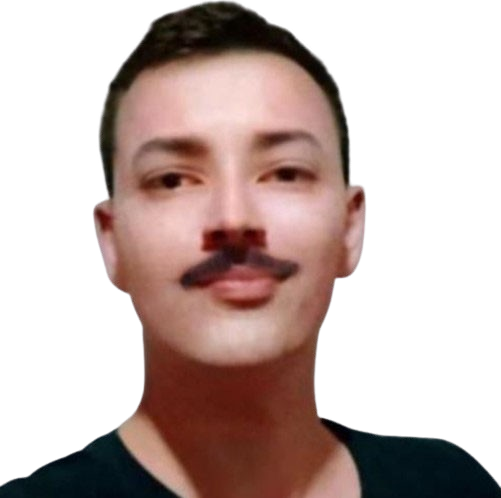
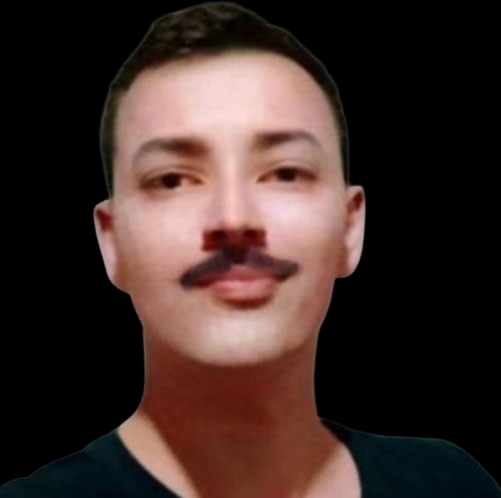
Corrige exibição da foto do Xonha no status.
Achata o PNG no fundo preto, recentra o crop e adiciona
cache-bust na URL para limpar o PNG corrompido em cache.

diff --git a/static/style.css b/static/style.css
@@ -5711,7 +5711,7 @@ html.theme-light .xonha-hero {
   height: 128px;
   border-radius: 50%;
   object-fit: cover;
-  object-position: center 20%;
+  object-position: center center;
   border: 3px solid var(--border);
   background: #111;
   transition: filter 0.25s ease, border-color 0.25s ease, opacity 0.25s ease;

diff --git a/templates/xonhometro.html b/templates/xonhometro.html
@@ -25,7 +25,7 @@
     <div class="xonha-status-block xonha-status-block--{{ stats.status }}">
       <img
         class="xonha-status-foto"
-        src="/static/img/xonha.png"
+        src="/static/img/xonha.png?v=2"
         alt="Xonha"
         width="140"
         height="140"

diff --git a/templates/base.html b/templates/base.html
@@ -27,7 +27,7 @@
     }
   })();
   </script>
-  <link rel="stylesheet" href="/static/style.css?v=153" />
+  <link rel="stylesheet" href="/static/style.css?v=154" />
 </head>
 {% set ui_mode = ui_mode if ui_mode is defined else 'admin' %}
 {% set path = request.url.path %}
